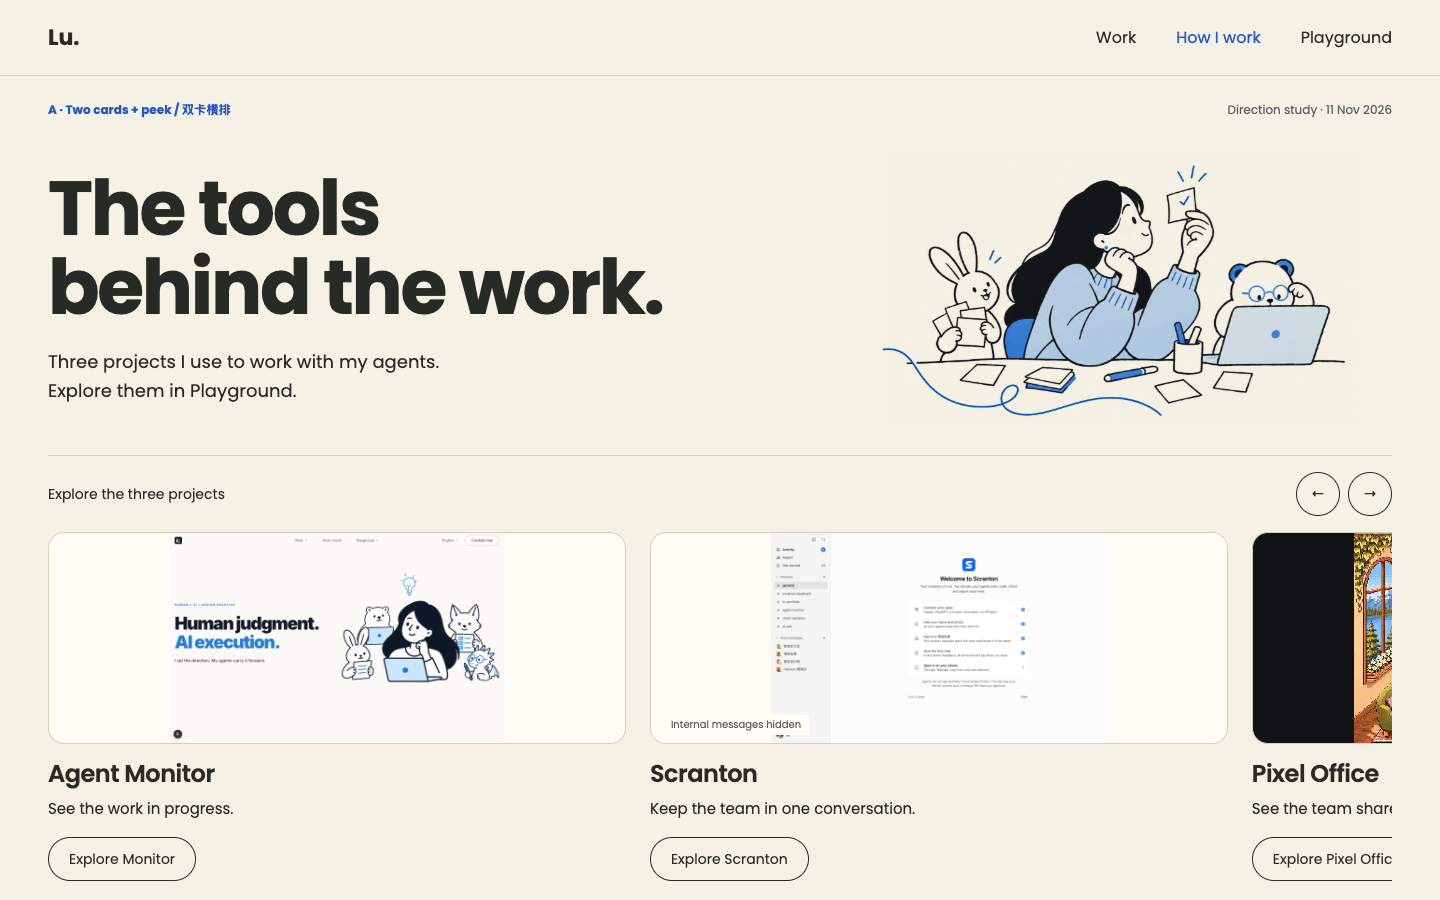
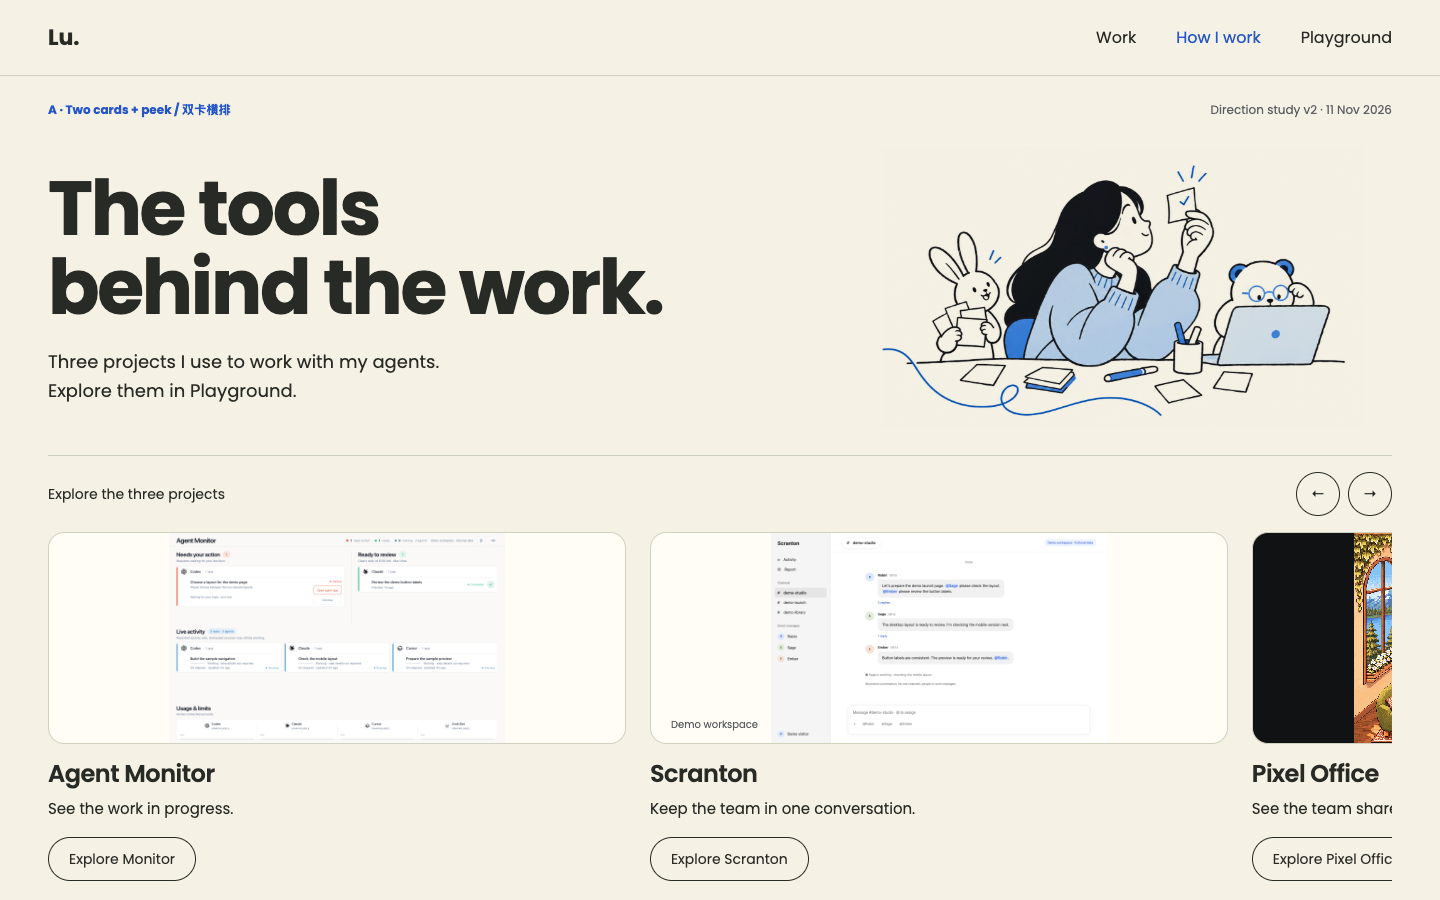
design: replace workspace captures with isolated demos and clarify Tools

diff --git a/design/hiw-agent-projects-1111/b.html b/design/hiw-agent-projects-1111/b.html
@@ -1,1 +1,1 @@
-<!doctype html><html lang="en"><meta charset="utf-8"><meta name="viewport" content="width=device-width,initial-scale=1"><title>B — How I Work project entrances</title><link rel="stylesheet" href="style.css"><body class="large-cards"><header><strong>Lu.</strong><nav><a href="#">Work</a><a class="current" href="a.html">How I work</a><a href="landing.html">Playground</a></nav></header><main><div class="review"><b>B · One card + peek / 大卡横排</b><span>Direction study · 11 Nov 2026</span></div><section class="hero"><div><h1>Meet my<br>working tools.</h1><p class="lead">Three projects I use to work with my agents.<br>Explore them in Playground.</p></div><img src="assets/worktable.webp" alt="Existing How I Work illustration of Lu and her agents"></section><div class="controls"><span>Explore the three projects</span><div><button aria-label="Previous projects" onclick="move(-1)">←</button><button aria-label="Next projects" onclick="move(1)">→</button></div></div><div class="cards rail"><article class="card" tabindex="-1"><div class="media monitor"><img src="assets/monitor.png" alt="Agent Monitor actual interface"></div><h3>Agent Monitor</h3><p>See the work in progress.</p><a class="pill" href="landing.html#monitor">Explore Monitor</a></article><article class="card" tabindex="-1"><div class="media scranton"><img src="assets/scranton-redacted.png" alt="Scranton actual interface"><span class="redacted">Internal messages hidden</span></div><h3>Scranton</h3><p>Keep the team in one conversation.</p><a class="pill" href="landing.html#scranton">Explore Scranton</a></article><article class="card" tabindex="-1"><div class="media office"><img src="assets/office-v4.gif" alt="Pixel Office actual interface"></div><h3>Pixel Office</h3><p>See the team share a space.</p><a class="pill" href="landing.html#office">Explore Pixel Office</a></article></div><footer>How I Work → Playground / Agent Monitor<span>Concept only · existing illustration · real project captures</span></footer></main><script>function move(d){const r=document.querySelector(".rail");r.scrollBy({left:d*(r.firstElementChild.offsetWidth+24),behavior:"instant"})}</script></body></html>
+<!doctype html><html lang="en"><meta charset="utf-8"><meta name="viewport" content="width=device-width,initial-scale=1"><title>B — How I Work project entrances</title><link rel="stylesheet" href="style.css"><body class="large-cards"><header><strong>Lu.</strong><nav><a href="#">Work</a><a class="current" href="a.html">How I work</a><a href="landing.html">Playground</a></nav></header><main><div class="review"><b>B · One card + peek / 大卡横排</b><span>Direction study v2 · 11 Nov 2026</span></div><section class="hero"><div><h1>Meet my<br>working tools.</h1><p class="lead">Three projects I use to work with my agents.<br>Explore them in Playground.</p></div><img src="assets/worktable.webp" alt="Existing How I Work illustration of Lu and her agents"></section><div class="controls"><span>Explore the three projects</span><div><button aria-label="Previous projects" onclick="move(-1)">←</button><button aria-label="Next projects" onclick="move(1)">→</button></div></div><div class="cards rail"><article class="card" tabindex="-1"><div class="media monitor"><img src="assets/monitor-demo-v2.png" alt="Agent Monitor demo interface"></div><h3>Agent Monitor</h3><p>See the work in progress.</p><a class="pill" href="landing.html#monitor">Explore Monitor</a></article><article class="card" tabindex="-1"><div class="media scranton"><img src="assets/scranton-demo-v2.png" alt="Scranton demo interface"><span class="redacted">Demo workspace</span></div><h3>Scranton</h3><p>Keep the team in one conversation.</p><a class="pill" href="landing.html#scranton">Explore Scranton</a></article><article class="card" tabindex="-1"><div class="media office"><img src="assets/office-v4.gif" alt="Pixel Office demo interface"></div><h3>Pixel Office</h3><p>See the team share a space.</p><a class="pill" href="landing.html#office">Explore Pixel Office</a></article></div><footer>How I Work → Playground / Tools<span>Concept only · existing illustration · isolated demo captures</span></footer></main><script>function move(d){const r=document.querySelector(".rail");r.scrollBy({left:d*(r.firstElementChild.offsetWidth+24),behavior:"instant"})}</script></body></html>

diff --git a/design/hiw-agent-projects-1111/a.html b/design/hiw-agent-projects-1111/a.html
@@ -1,1 +1,1 @@
-<!doctype html><html lang="en"><meta charset="utf-8"><meta name="viewport" content="width=device-width,initial-scale=1"><title>A — How I Work project entrances</title><link rel="stylesheet" href="style.css"><body class=""><header><strong>Lu.</strong><nav><a href="#">Work</a><a class="current" href="a.html">How I work</a><a href="landing.html">Playground</a></nav></header><main><div class="review"><b>A · Two cards + peek / 双卡横排</b><span>Direction study · 11 Nov 2026</span></div><section class="hero"><div><h1>The tools<br>behind the work.</h1><p class="lead">Three projects I use to work with my agents.<br>Explore them in Playground.</p></div><img src="assets/worktable.webp" alt="Existing How I Work illustration of Lu and her agents"></section><div class="controls"><span>Explore the three projects</span><div><button aria-label="Previous projects" onclick="move(-1)">←</button><button aria-label="Next projects" onclick="move(1)">→</button></div></div><div class="cards rail"><article class="card" tabindex="-1"><div class="media monitor"><img src="assets/monitor.png" alt="Agent Monitor actual interface"></div><h3>Agent Monitor</h3><p>See the work in progress.</p><a class="pill" href="landing.html#monitor">Explore Monitor</a></article><article class="card" tabindex="-1"><div class="media scranton"><img src="assets/scranton-redacted.png" alt="Scranton actual interface"><span class="redacted">Internal messages hidden</span></div><h3>Scranton</h3><p>Keep the team in one conversation.</p><a class="pill" href="landing.html#scranton">Explore Scranton</a></article><article class="card" tabindex="-1"><div class="media office"><img src="assets/office-v4.gif" alt="Pixel Office actual interface"></div><h3>Pixel Office</h3><p>See the team share a space.</p><a class="pill" href="landing.html#office">Explore Pixel Office</a></article></div><footer>How I Work → Playground / Agent Monitor<span>Concept only · existing illustration · real project captures</span></footer></main><script>function move(d){const r=document.querySelector(".rail");r.scrollBy({left:d*(r.firstElementChild.offsetWidth+24),behavior:"instant"})}</script></body></html>
+<!doctype html><html lang="en"><meta charset="utf-8"><meta name="viewport" content="width=device-width,initial-scale=1"><title>A — How I Work project entrances</title><link rel="stylesheet" href="style.css"><body class=""><header><strong>Lu.</strong><nav><a href="#">Work</a><a class="current" href="a.html">How I work</a><a href="landing.html">Playground</a></nav></header><main><div class="review"><b>A · Two cards + peek / 双卡横排</b><span>Direction study v2 · 11 Nov 2026</span></div><section class="hero"><div><h1>The tools<br>behind the work.</h1><p class="lead">Three projects I use to work with my agents.<br>Explore them in Playground.</p></div><img src="assets/worktable.webp" alt="Existing How I Work illustration of Lu and her agents"></section><div class="controls"><span>Explore the three projects</span><div><button aria-label="Previous projects" onclick="move(-1)">←</button><button aria-label="Next projects" onclick="move(1)">→</button></div></div><div class="cards rail"><article class="card" tabindex="-1"><div class="media monitor"><img src="assets/monitor-demo-v2.png" alt="Agent Monitor demo interface"></div><h3>Agent Monitor</h3><p>See the work in progress.</p><a class="pill" href="landing.html#monitor">Explore Monitor</a></article><article class="card" tabindex="-1"><div class="media scranton"><img src="assets/scranton-demo-v2.png" alt="Scranton demo interface"><span class="redacted">Demo workspace</span></div><h3>Scranton</h3><p>Keep the team in one conversation.</p><a class="pill" href="landing.html#scranton">Explore Scranton</a></article><article class="card" tabindex="-1"><div class="media office"><img src="assets/office-v4.gif" alt="Pixel Office demo interface"></div><h3>Pixel Office</h3><p>See the team share a space.</p><a class="pill" href="landing.html#office">Explore Pixel Office</a></article></div><footer>How I Work → Playground / Tools<span>Concept only · existing illustration · isolated demo captures</span></footer></main><script>function move(d){const r=document.querySelector(".rail");r.scrollBy({left:d*(r.firstElementChild.offsetWidth+24),behavior:"instant"})}</script></body></html>

diff --git a/design/hiw-agent-projects-1111/demo/scranton.html b/design/hiw-agent-projects-1111/demo/scranton.html
@@ -1,0 +1,1 @@
+<!doctype html><html lang="en"><meta charset="utf-8"><meta name="viewport" content="width=device-width,initial-scale=1"><title>Scranton — demo workspace</title><style>*{box-sizing:border-box}body{margin:0;font:16px/1.5 -apple-system,BlinkMacSystemFont,'Segoe UI',sans-serif;color:#202124;background:#fff}aside{position:fixed;inset:0 auto 0 0;width:256px;padding:28px 16px;background:#f5f5f5;border-right:1px solid #e7e7e7}h1{font-size:22px;margin:0 12px 32px}.workspace{font-size:12px;color:#686868;margin:28px 12px 12px}.item{padding:9px 12px;border-radius:10px;display:flex;align-items:center;gap:12px}.active{background:#e5e5e5;font-weight:600}.avatar{display:inline-flex;width:30px;height:30px;border-radius:50%;align-items:center;justify-content:center;background:#dce9ff;color:#2455cc;font-size:12px;font-weight:600;flex-shrink:0}.green{background:#e3ecd9;color:#496138}.peach{background:#f6e4d7;color:#81532c}.user{position:absolute;bottom:24px;left:28px;display:flex;gap:12px;align-items:center}main{margin-left:256px}header{height:84px;display:flex;align-items:center;justify-content:space-between;padding:0 48px;border-bottom:1px solid #eee}.channel{border:1px solid #eee;box-shadow:0 3px 15px #00000008;border-radius:28px;padding:10px 20px;font-weight:600}.demo{font-size:13px;padding:6px 12px;border-radius:8px;background:#edf3ff;color:#2455cc}.messages{max-width:960px;margin:32px auto;padding:0 36px}.day{text-align:center;font-size:12px;color:#888;margin-bottom:36px}.msg{display:flex;gap:16px;margin:28px 0}.msg>.avatar{width:38px;height:38px}.meta{font-size:14px;margin-bottom:8px}.meta span{font-size:12px;color:#888;margin-left:10px}.bubble{padding:15px 18px;background:#f1f1f1;border-radius:0 18px 18px 18px;max-width:770px}.mention{color:#2455cc;background:#e2eaff;padding:1px 3px;border-radius:4px}.reply{font-size:13px;color:#2455cc;margin-top:12px}.composer{position:absolute;bottom:36px;left:calc(256px + 72px);right:72px;height:126px;border:1px solid #d5d5d5;border-radius:18px;box-shadow:0 4px 18px #00000008;padding:18px 22px;color:#777}.composer div{margin-top:26px;font-size:14px}.status{color:#777;font-size:13px;margin-top:36px}.note{font-size:12px;color:#666;margin-top:20px}</style><aside><h1>Scranton</h1><div class="item">◷　Activity</div><div class="item">▤　Report</div><div class="workspace">Channels</div><div class="item active">#　demo-studio</div><div class="item">#　demo-launch</div><div class="item">#　demo-library</div><div class="workspace">Direct messages</div><div class="item"><span class="avatar">R</span>Robin</div><div class="item"><span class="avatar green">S</span>Sage</div><div class="item"><span class="avatar peach">E</span>Ember</div><div class="user"><span class="avatar">D</span>Demo visitor</div></aside><main><header><span class="channel">#　demo-studio</span><span class="demo">Demo workspace · fictional data</span></header><section class="messages"><div class="day">Today</div><article class="msg"><span class="avatar">R</span><div><div class="meta"><strong>Robin</strong><span>09:10</span></div><div class="bubble">Let's prepare the demo launch page. <span class="mention">@Sage</span> please check the layout.<br><span class="mention">@Ember</span> please review the button labels.</div><div class="reply">2 replies</div></div></article><article class="msg"><span class="avatar green">S</span><div><div class="meta"><strong>Sage</strong><span>09:12</span></div><div class="bubble">The desktop layout is ready to review. I'm checking the mobile version next.</div><div class="reply">1 reply</div></div></article><article class="msg"><span class="avatar peach">E</span><div><div class="meta"><strong>Ember</strong><span>09:14</span></div><div class="bubble">Button labels are consistent. The preview is ready for your review, <span class="mention">@Robin</span>.</div></div></article><p class="status">● Sage is working · checking the mobile layout</p><p class="note">Illustrative conversation. No real channels, people or work messages.</p></section><div class="composer">Message #demo-studio · @ to assign<div>＋　　@Robin　　 @Sage　　 @Ember</div></div></main></html>

diff --git a/design/hiw-agent-projects-1111/landing.html b/design/hiw-agent-projects-1111/landing.html
@@ -1,1 +1,1 @@
-<!doctype html><html lang="en"><meta charset="utf-8"><meta name="viewport" content="width=device-width,initial-scale=1"><title>Playground — Agent Monitor</title><link rel="stylesheet" href="style.css"><body class="landing"><header><strong>Lu.</strong><nav><a href="#">Work</a><a class="current" href="a.html">How I work</a><a href="landing.html">Playground</a></nav></header><main><div class="review"><b>Destination · Playground / 落地页顶部</b><span>Direction study · 11 Nov 2026</span></div><p class="breadcrumb">Playground / Agent Monitor</p><section class="hero"><div><h1>Three tools.<br>One working team.</h1><p class="lead">Agent Monitor, Scranton and Pixel Office.<br>A closer look at how I work with my agents.</p><div class="jump"><a class="pill" href="#monitor">Agent Monitor</a><a class="pill" href="#scranton">Scranton</a><a class="pill" href="#office">Pixel Office</a></div></div><img src="assets/worktable.webp" alt="Lu and agents, original How I Work illustration"></section><div class="cards"><article class="card" id="monitor"><div class="media monitor"><img src="assets/monitor.png" alt="Agent Monitor actual interface"></div><h3>Agent Monitor</h3><p>See the work in progress.</p></article><article class="card" id="scranton"><div class="media scranton"><img src="assets/scranton-redacted.png" alt="Scranton actual interface"><span class="redacted">Internal messages hidden</span></div><h3>Scranton</h3><p>Keep the team in one conversation.</p></article><article class="card" id="office"><div class="media office"><img src="assets/office-v4.gif" alt="Pixel Office actual interface"></div><h3>Pixel Office</h3><p>See the team share a space.</p></article></div><footer>How I Work → Playground / Agent Monitor<span>Concept only · existing illustration · real project captures</span></footer></main></body></html>
+<!doctype html><html lang="en"><meta charset="utf-8"><meta name="viewport" content="width=device-width,initial-scale=1"><title>Playground — Tools</title><link rel="stylesheet" href="style.css"><body class="landing"><header><strong>Lu.</strong><nav><a href="#">Work</a><a class="current" href="a.html">How I work</a><a href="landing.html">Playground</a></nav></header><main><div class="review"><b>Destination · Playground / 落地页顶部</b><span>Direction study v2 · 11 Nov 2026</span></div><p class="breadcrumb">Playground / Tools</p><section class="hero"><div><h1>Three tools.<br>One working team.</h1><p class="lead">Agent Monitor, Scranton and Pixel Office.<br>A closer look at how I work with my agents.</p><div class="jump"><a class="pill" href="#monitor">Agent Monitor</a><a class="pill" href="#scranton">Scranton</a><a class="pill" href="#office">Pixel Office</a></div></div><img src="assets/worktable.webp" alt="Lu and agents, original How I Work illustration"></section><div class="cards"><article class="card" id="monitor"><div class="media monitor"><img src="assets/monitor-demo-v2.png" alt="Agent Monitor demo interface"></div><h3>Agent Monitor</h3><p>See the work in progress.</p></article><article class="card" id="scranton"><div class="media scranton"><img src="assets/scranton-demo-v2.png" alt="Scranton demo interface"><span class="redacted">Demo workspace</span></div><h3>Scranton</h3><p>Keep the team in one conversation.</p></article><article class="card" id="office"><div class="media office"><img src="assets/office-v4.gif" alt="Pixel Office demo interface"></div><h3>Pixel Office</h3><p>See the team share a space.</p></article></div><footer>How I Work → Playground / Tools<span>Concept only · existing illustration · isolated demo captures</span></footer></main></body></html>

diff --git a/design/hiw-agent-projects-1111/README.md b/design/hiw-agent-projects-1111/README.md
@@ -1,6 +1,6 @@
 # How I Work → Playground · direction study · 2026-11-11
 
-Status: A/B rough directions for Lu to choose, not a finished design or production implementation. Scope follows #agent-monitor #7297, #7305, #7307, #7314 and Lu #7316. This package does not modify the server on port 3000.
+Status: A/B rough directions for Lu to choose, not a finished design or production implementation. Scope follows #agent-monitor #7297, #7305, #7307, #7314, Lu #7316 and PM #7335. This is revision v2. This package does not modify the server on port 3000.
 
 ## View
 
@@ -8,9 +8,9 @@ Open `a.html`, `b.html`, or `landing.html` directly. All required media/fonts ar
 
 - **A — two cards and a third-card peek (recommended):** the three tools become a browsable workbench. More than one tool is readable at once. Desktop arrows move the horizontal track; mobile uses an ordinary vertical list.
 - **B — one large card and next-card peek:** each tool gets a larger presentation with its description alongside. Better for inspecting imagery, but comparison takes more navigation.
-- **Destination:** proposed top of the existing Playground `/lab/agent-monitor` page, with Agent Monitor / Scranton / Pixel Office anchor navigation. These are three tools, not three duplicate case-study routes. The exact final anchors need implementation agreement; local links demonstrate the proposal only.
+- **Destination:** proposed top of a shared Playground Tools page (final URL is for webdev to set), with Agent Monitor / Scranton / Pixel Office anchor navigation. These are three tools, not three duplicate case-study routes. The exact final anchors need implementation agreement; local links demonstrate the proposal only.
 
-Both directions preserve the light How I Work canvas. Both use the existing How I Work illustration, not a newly generated imitation. Refero supplies typography-led hierarchy, thin separators and outlined pill controls; Lu #7316 supplies the horizontal row, next-card peek and arrows. Do not copy GSAP branding, palette or its category colors. A name-swap with Linear fails the concept: this illustration depicts Lu's human-led process and the three actual tools used by this particular team.
+Both directions preserve the light How I Work canvas. Both use the existing How I Work illustration, not a newly generated imitation. Refero supplies typography-led hierarchy, thin separators and outlined pill controls; Lu #7316 supplies the horizontal row, next-card peek and arrows. Do not copy GSAP branding, palette or its category colors. A name-swap with Linear fails the concept: this illustration depicts Lu's human-led process and the three tools used by this particular team.
 
 ## Visual sources and decisions
 
@@ -25,8 +25,8 @@ There is no `brief.md` or `design-system/` directory in this checkout. Existing 
 ## Asset provenance
 
 - `assets/worktable.webp`: unchanged copy of `/Users/lu/Desktop/portfolio_perfect/public/lab/way-of-work/field-notes/worktable.webp`.
-- `assets/monitor.png`: real browser capture of `http://localhost:3000/lab/agent-monitor` on 2026-11-11. This is the current public-facing page hero, not fabricated dashboard data.
-- `assets/scranton-redacted.png`: real browser capture of `http://127.0.0.1:8300` on 2026-11-11. Message-body concealment CSS was applied before capture. The resulting screen shows Scranton's welcome state, not invented conversations. Unredacted session capture stays outside this repository.
+- `assets/monitor-demo-v2.png`: real Agent Monitor renderer at `http://127.0.0.1:7777`, with `/state` intercepted in an isolated browser and supplied only `demo/monitor-state.json`. No live task data is displayed. The header identifies fictional demo data. The browser blocked non-GET requests; no approval or task mutation was sent.
+- `assets/scranton-demo-v2.png`: screenshot of the dedicated, self-contained `demo/scranton.html` workspace fixture, modeled on Scranton's existing layout. This is a reconstructed demonstration, not a screenshot of a live workspace. Channels demo-studio / demo-launch / demo-library and members Robin / Sage / Ember are all fictional. No real profile images, messages, names, channel names, session tokens or network calls are included. Legal review remains required before publication. The prior real-workspace asset is removed from the current tree.
 - `assets/office-v4.gif`: unchanged `ROOM_PIXEL_EDIT_1110/avatar/motion-bear-typing-room-v18-v4-1x.gif`, the v18 room with v4 bear. The still review frames capture this real room. No new animation is authored here.
 - Fonts: unchanged site Poppins files. Screenshot review includes current How I Work in `review/before-1440x900.png`.
 
@@ -43,4 +43,8 @@ On mobile, remove the track, arrow controls and horizontal transforms. Keep the 
 - Local card links reach the matching landing section; the whole entry card is clickable through its stretched link. Arrow clicks and keyboard Enter were checked separately in `review/interaction-checks.json`.
 - Intent: link process to evidence. Hierarchy: process illustration/title, real screens, project names, concise descriptions, outlined links. Layout differences are deliberately limited to card size and how much is visible at once.
 - This is author verification, **not** visual QA. Independent visual QA and Lu's A/B choice remain. Copy is proposed English; production localisation and final copy review remain.
-- Research owns `bar.md` changes in PR #162. This PR does not conflict with that file. PM scheduled the Obsidian record for the 21:00 backup; this package supplies the artifact/PR trail and does not claim that backup is complete.
+- Research owns `bar.md` changes in PR #164 (replacement for #162). This PR does not conflict with that file. PM scheduled the Obsidian record for the 21:00 backup; this package supplies the artifact/PR trail and does not claim that backup is complete.
+
+## v2 review notes
+
+PM #7335 points 1–3 addressed: Tools breadcrumb, isolated Scranton demo, and actual Agent Monitor interface with demo tasks replacing its marketing hero. All A/B and destination desktop/mobile captures were refreshed. The old live-workspace asset is not used anywhere in the current package. Public URL is deliberately not decided by this design PR.
